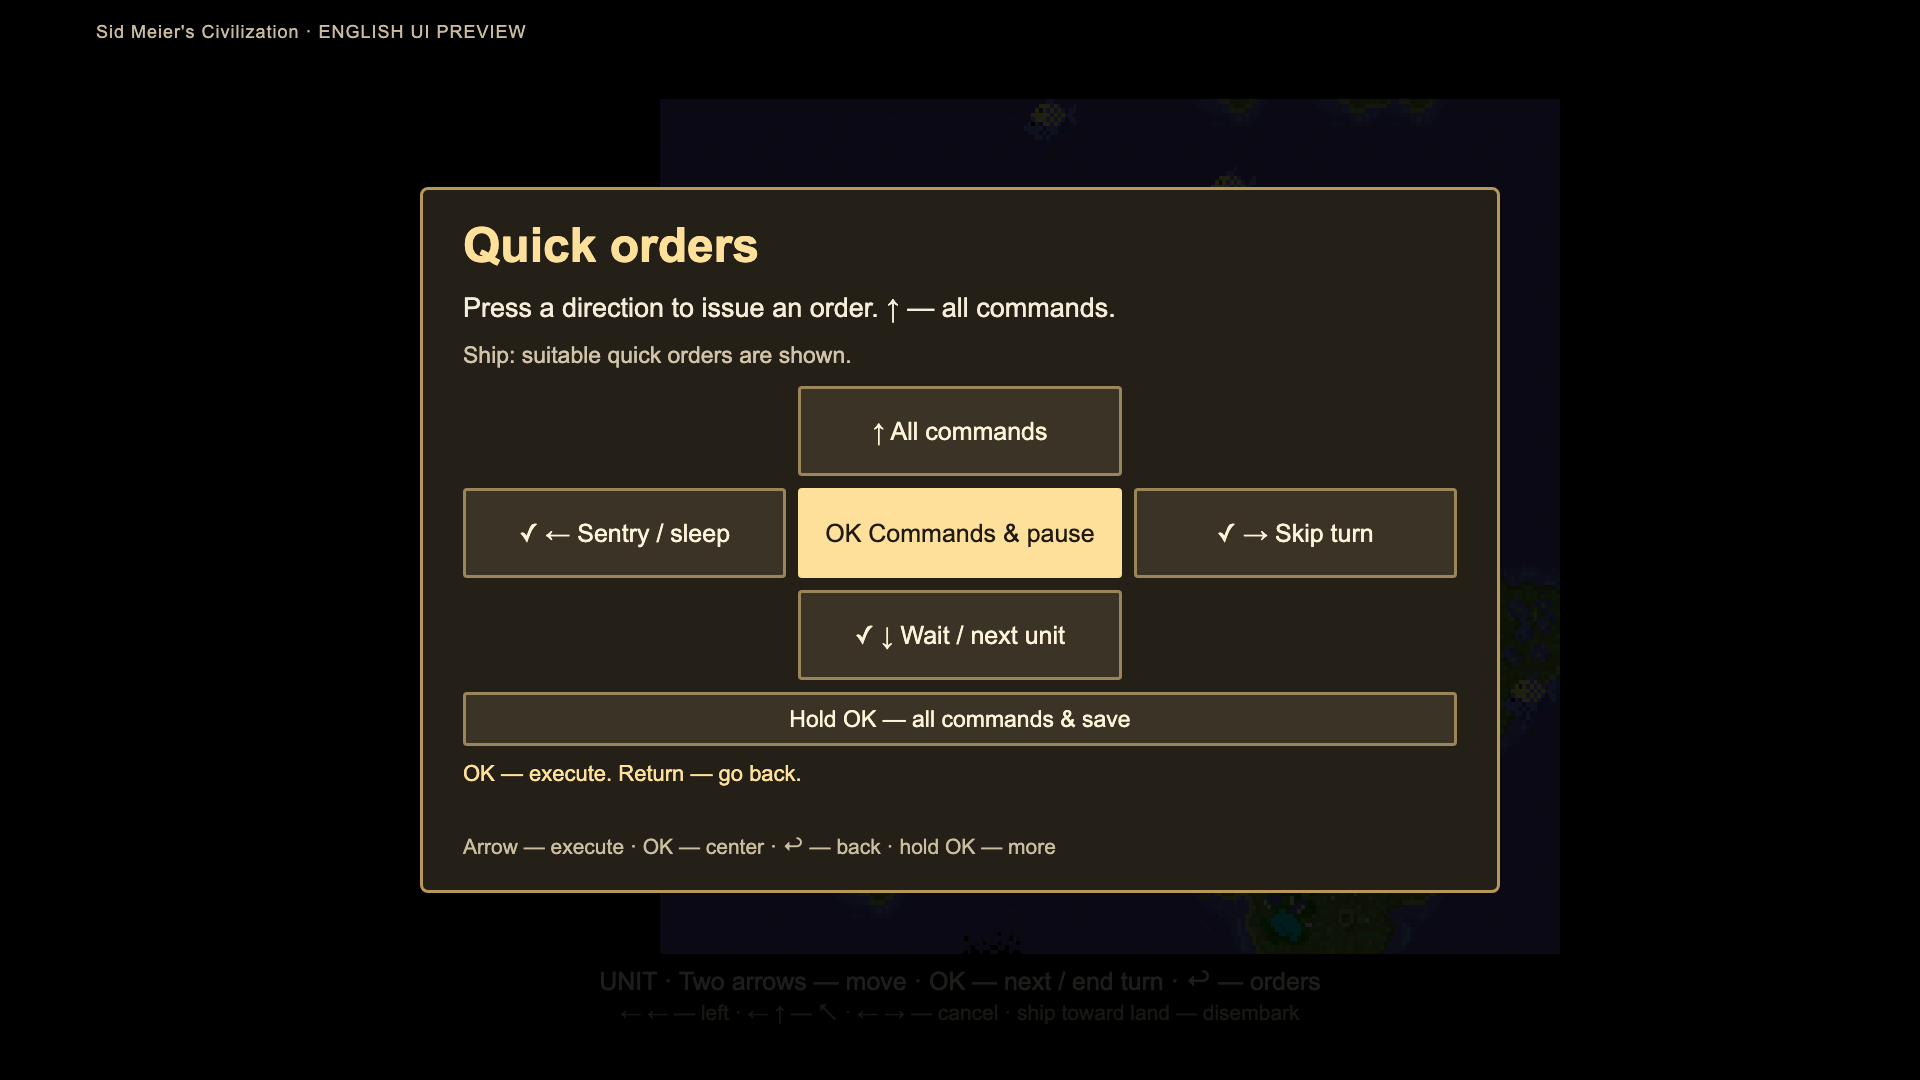
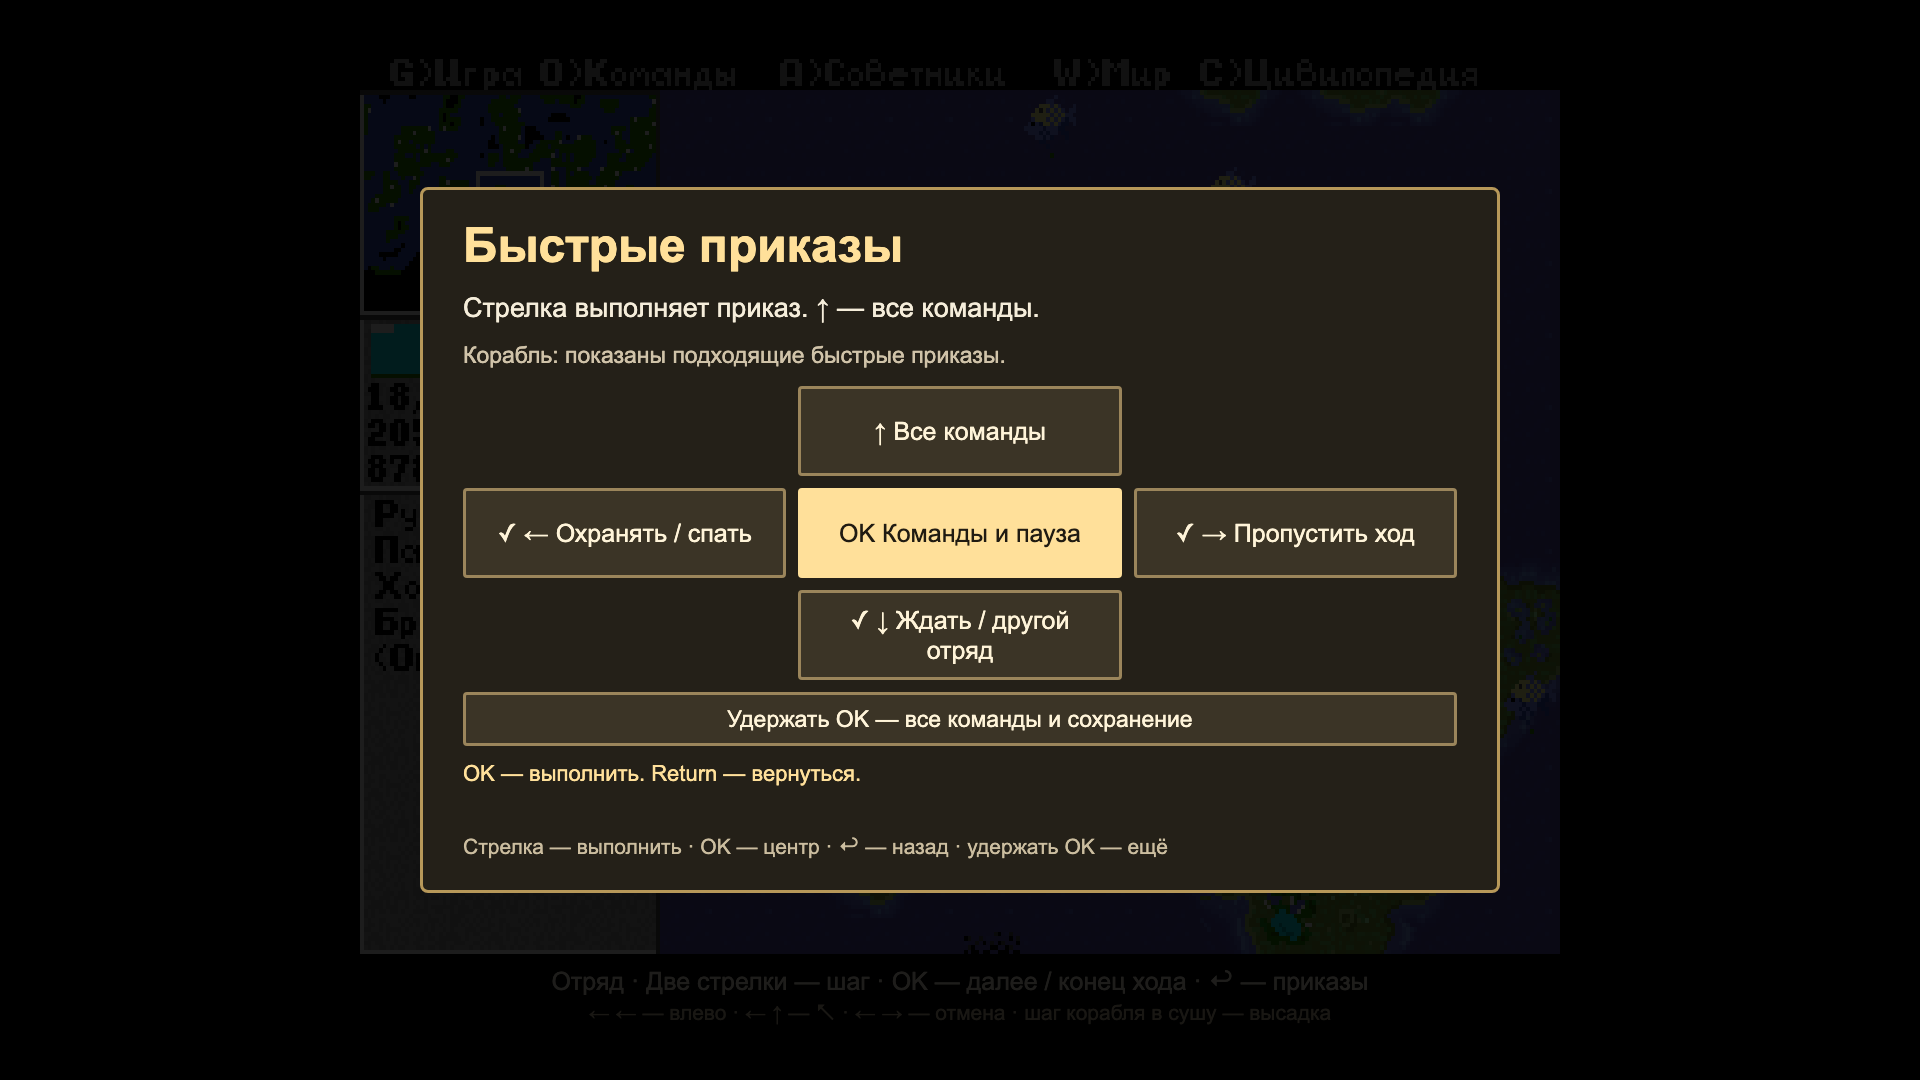
docs: retain original Russian Dune II and Civilization captures
Keep the English X-COM, Prince of Persia, and Zuma interface previews. Restore the original Dune II and Civilization PNGs and describe the gallery languages accurately.

diff --git a/docs/examples.md b/docs/examples.md
@@ -23,28 +23,27 @@ assessing fidelity, completeness, and what an automated test can prove.
 | Published image | Source capture in the original game project | Environment |
 | --- | --- | --- |
 | [X-COM](screenshots/xcom.png) | `output/playwright/skill-gallery-en/xcom.png` | Opera, English UI preview, 1920×1080 |
-| [Civilization](screenshots/civilization.png) | `output/playwright/skill-gallery-en/civilization.png` | Opera, English UI preview, 1920×1080 |
-| [Dune II](screenshots/dune-ii.png) | `output/playwright/skill-gallery-en/dune-ii.png` | Opera, English UI preview, 1920×1080 |
+| [Civilization](screenshots/civilization.png) | `output/civilization-context/quick-ship.png` | Browser verification, original Russian UI, 1920×1080 |
+| [Dune II](screenshots/dune-ii.png) | `output/playwright/dune-controls/orders.png` | Browser verification, original Russian UI, 1920×1080 |
 | [Prince of Persia](screenshots/prince-of-persia.png) | `output/playwright/skill-gallery-en/prince-of-persia.png` | Opera, English UI preview, 1920×1080 |
 | [Zuma Deluxe](screenshots/zuma.png) | `output/playwright/skill-gallery-en/zuma.png` | Opera, English UI preview, 1920×1080 |
 
-These screenshots were captured on 2026-10-28 from running local ports in isolated
-Opera browser contexts. The remote-control panels, hints, and Zuma interface text
-were translated in the live page before capture. X-COM and Prince of Persia
-already render their native game text in English.
+The X-COM, Prince of Persia, and Zuma screenshots were captured on 2026-10-28
+from running local ports in isolated Opera browser contexts. Their remote-control
+hints and Zuma interface text were translated in the live page before capture.
+X-COM and Prince of Persia already render their native game text in English.
 
-Dune II and Civilization use the supplied Russian DOS versions. The preview uses
-CSS clipping to show the map without their untranslated native HUD: Dune omits
-the top 20% and right 25% of the native canvas; Civilization omits the top 5% and
-left 25%. Their images are explicitly labeled **ENGLISH UI PREVIEW**. The English
-panels preserve the existing command structure and availability states.
+Dune II and Civilization retain the original Russian screenshots, including the
+native HUD and remote-control panels. These two PNGs are copied without alteration
+from the original verification artifacts listed above. Their original DOS programs
+and port interfaces remain in Russian.
 
-This is documentation presentation, not a claim that the installed ports or the
-original DOS programs have been fully localized. No game executables, game rules,
-or original art were changed. The PNGs were captured directly from these live
-previews; no image retouching or AI-generated game imagery was used. Source game
-files, test fixtures, and capture runners belong to the original project and are
-not distributed in this skill repository.
+The English previews are documentation presentation, not a claim that the installed
+ports have received a complete localization. No game executables, game rules, or
+original art were changed. The PNGs were captured directly from the original ports
+or the live English previews; no image retouching or AI-generated game imagery was
+used. Source game files, test fixtures, and capture runners belong to the original
+project and are not distributed in this skill repository.
 
 ## What is and is not established
 

diff --git a/README.md b/README.md
@@ -16,12 +16,11 @@ performance measurement, and verification of the final TV package.
 
 ## Games behind the workflow
 
-These are **English UI previews captured from running ports in Opera** for this
-documentation. Remote-control labels and hints are localized in an isolated
-browser session. Dune II and Civilization retain their original Russian DOS
-programs; their native HUD is clipped to the map area for these previews. The
-images illustrate the interfaces, not physical-TV performance or a full English
-localization of those games.
+The gallery uses **English interface previews for X-COM, Prince of Persia, and
+Zuma**, captured from running ports in isolated Opera sessions. **Dune II and
+Civilization retain their original Russian interfaces**, including the native
+HUD and remote-control panels. These are browser captures, not physical-TV
+performance measurements. See the capture notes for language and provenance.
 
 | X-COM: UFO Defense | Dune II |
 | --- | --- |
